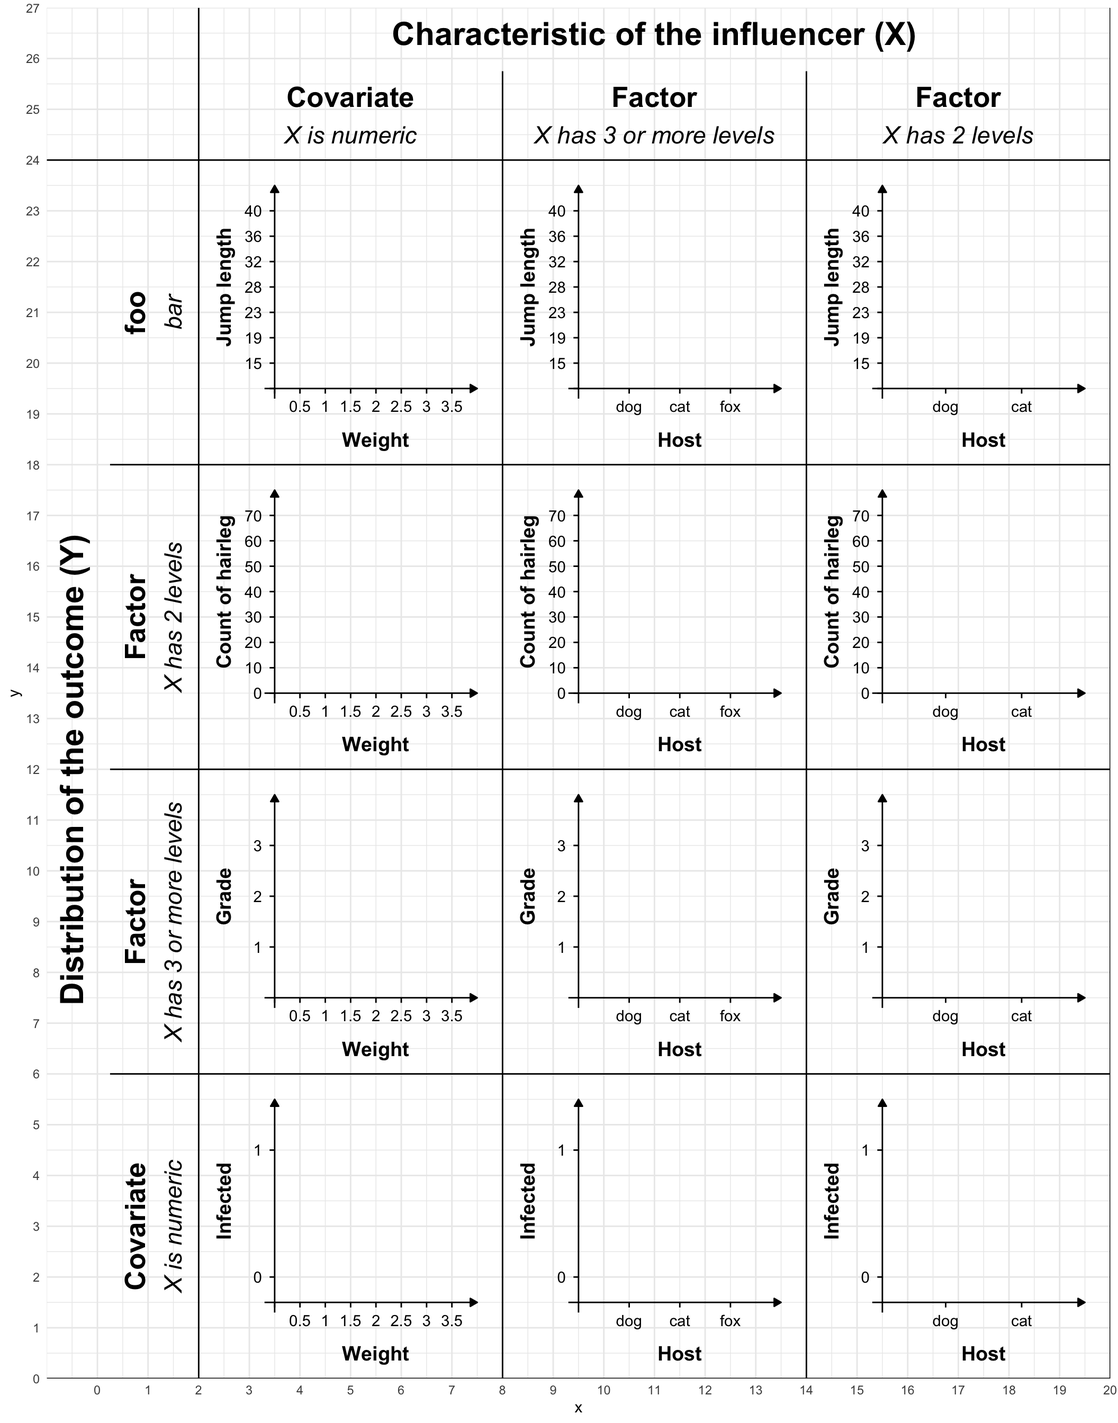
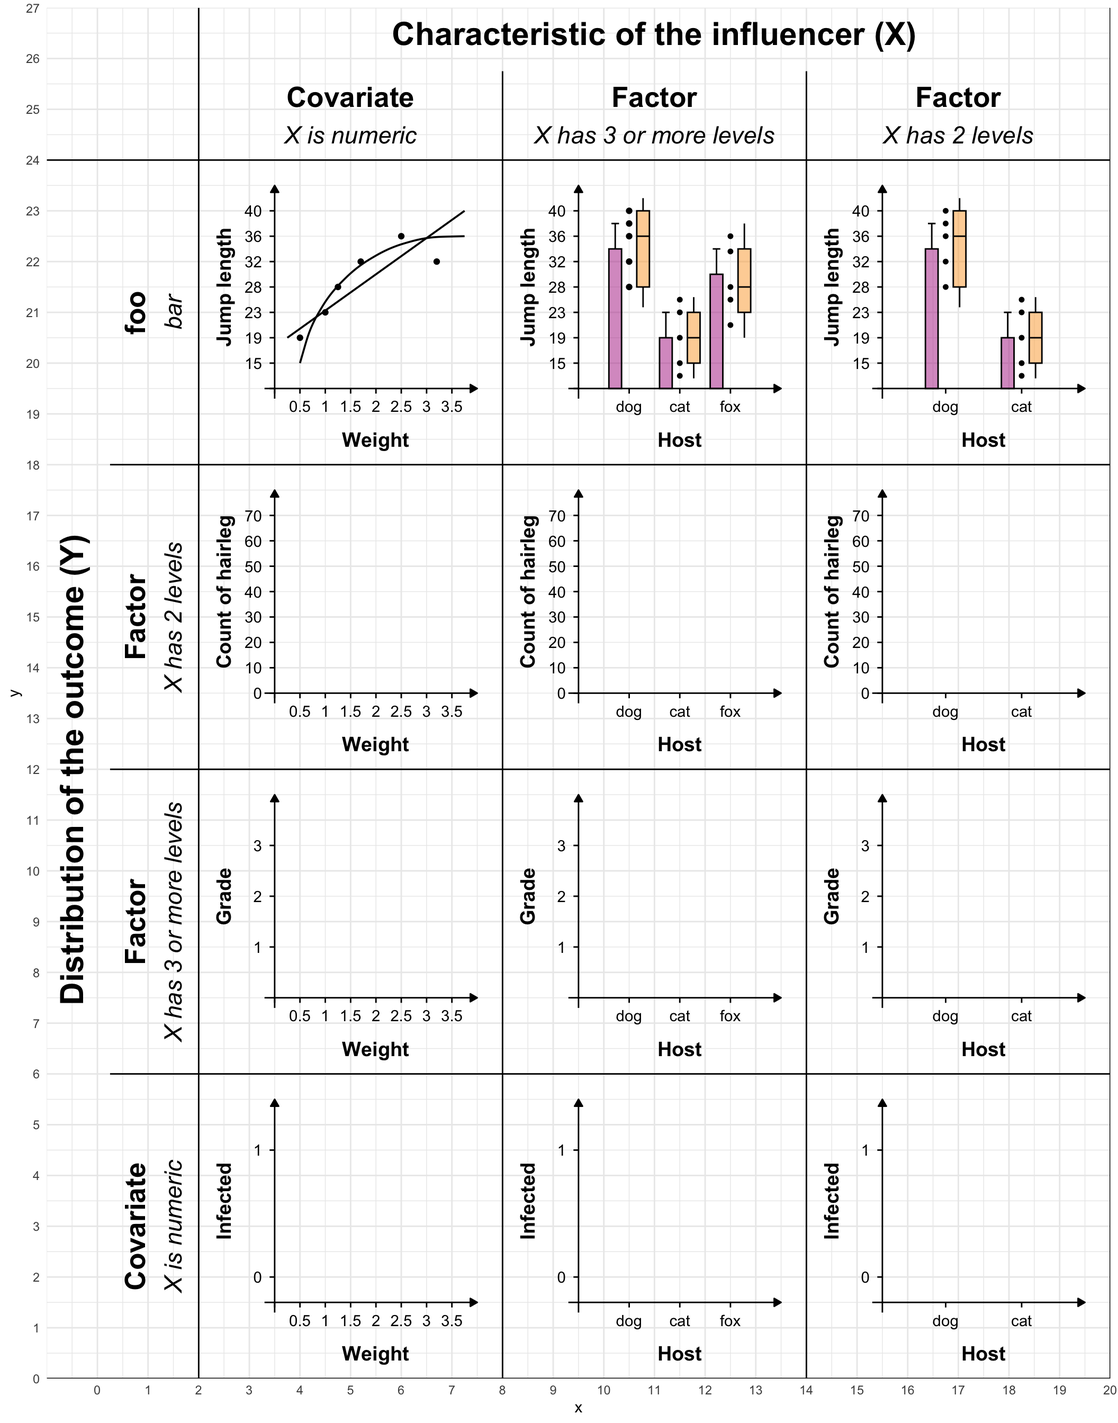
added

diff --git a/docs/chapter-40-preface.html b/docs/chapter-40-preface.html
@@ -361,7 +361,7 @@ pre > code.sourceCode > span > a:first-child::before { text-decoration: underlin
 </header>
 
 
-<p><em>Last modified on 14. December 2025 at 20:50:07</em></p>
+<p><em>Last modified on 15. December 2025 at 15:38:43</em></p>
 <blockquote class="blockquote">
 <p><em>“What problem have you solved, ever, that was worth solving where you knew all the given information in advance? No problem worth solving is like that. In the real world, you have a surplus of information and you have to filter it, or you don’t have sufficient information and you have to go find some.” — <a href="https://www.ted.com/talks/dan_meyer_math_class_needs_a_makeover?language=en&amp;subtitle=en&amp;trigger=5s">Dan Meyer in Math class needs a makeover</a></em></p>
 </blockquote>
@@ -1016,9 +1016,68 @@ Figure&nbsp;1: foo
 <span id="cb1-128"><a href="#cb1-128" aria-hidden="true" tabindex="-1"></a>  <span class="fu">geom_coord_cross</span>(<span class="at">x =</span> <span class="fl">15.5</span>, <span class="at">y =</span> <span class="fl">7.5</span>, <span class="at">yticks =</span> <span class="st">"3lvl"</span>, <span class="at">xticks =</span> <span class="st">"2lvl"</span>) <span class="sc">+</span></span>
 <span id="cb1-129"><a href="#cb1-129" aria-hidden="true" tabindex="-1"></a>  <span class="fu">geom_coord_cross</span>(<span class="at">x =</span> <span class="fl">3.5</span>, <span class="at">y =</span> <span class="fl">1.5</span>, <span class="at">yticks =</span> <span class="st">"2lvl"</span>, <span class="at">xticks =</span> <span class="st">"numeric"</span>) <span class="sc">+</span></span>
 <span id="cb1-130"><a href="#cb1-130" aria-hidden="true" tabindex="-1"></a>  <span class="fu">geom_coord_cross</span>(<span class="at">x =</span> <span class="fl">9.5</span>, <span class="at">y =</span> <span class="fl">1.5</span>, <span class="at">yticks =</span> <span class="st">"2lvl"</span>, <span class="at">xticks =</span> <span class="st">"3lvl"</span>) <span class="sc">+</span></span>
-<span id="cb1-131"><a href="#cb1-131" aria-hidden="true" tabindex="-1"></a>  <span class="fu">geom_coord_cross</span>(<span class="at">x =</span> <span class="fl">15.5</span>, <span class="at">y =</span> <span class="fl">1.5</span>, <span class="at">yticks =</span> <span class="st">"2lvl"</span>, <span class="at">xticks =</span> <span class="st">"2lvl"</span>) </span>
-<span id="cb1-132"><a href="#cb1-132" aria-hidden="true" tabindex="-1"></a>   </span>
-<span id="cb1-133"><a href="#cb1-133" aria-hidden="true" tabindex="-1"></a><span class="in">```</span></span>
+<span id="cb1-131"><a href="#cb1-131" aria-hidden="true" tabindex="-1"></a>  <span class="fu">geom_coord_cross</span>(<span class="at">x =</span> <span class="fl">15.5</span>, <span class="at">y =</span> <span class="fl">1.5</span>, <span class="at">yticks =</span> <span class="st">"2lvl"</span>, <span class="at">xticks =</span> <span class="st">"2lvl"</span>) <span class="sc">+</span></span>
+<span id="cb1-132"><a href="#cb1-132" aria-hidden="true" tabindex="-1"></a>  <span class="do">## normal</span></span>
+<span id="cb1-133"><a href="#cb1-133" aria-hidden="true" tabindex="-1"></a>  <span class="do">### covariate</span></span>
+<span id="cb1-134"><a href="#cb1-134" aria-hidden="true" tabindex="-1"></a>  <span class="fu">annotate</span>(<span class="st">"point"</span>, <span class="at">x =</span> <span class="fu">c</span>(<span class="fl">0.5</span>, <span class="dv">1</span>, <span class="fl">1.25</span>, <span class="fl">1.7</span>, <span class="fl">2.5</span>, <span class="fl">3.2</span>) <span class="sc">+</span> <span class="fl">3.5</span>, </span>
+<span id="cb1-135"><a href="#cb1-135" aria-hidden="true" tabindex="-1"></a>           <span class="at">y =</span> <span class="fu">c</span>(<span class="fl">20.5</span>, <span class="dv">21</span>, <span class="fl">21.5</span>, <span class="dv">22</span>, <span class="fl">22.5</span>, <span class="dv">22</span>), <span class="at">size =</span> <span class="fl">1.5</span>) <span class="sc">+</span></span>
+<span id="cb1-136"><a href="#cb1-136" aria-hidden="true" tabindex="-1"></a>  <span class="fu">annotate</span>(<span class="st">"segment"</span>, <span class="at">x =</span> <span class="fl">3.75</span>, <span class="at">xend =</span> <span class="fl">7.25</span>, <span class="at">y =</span> <span class="fl">20.5</span>, <span class="at">yend =</span> <span class="dv">23</span>, <span class="at">linewidth =</span> <span class="fl">0.65</span>) <span class="sc">+</span></span>
+<span id="cb1-137"><a href="#cb1-137" aria-hidden="true" tabindex="-1"></a>  <span class="fu">geom_curve</span>(<span class="fu">aes</span>(<span class="at">x =</span> <span class="dv">4</span>, <span class="at">y =</span> <span class="dv">20</span>, <span class="at">xend =</span> <span class="fl">7.25</span>, <span class="at">yend =</span> <span class="fl">22.5</span>),</span>
+<span id="cb1-138"><a href="#cb1-138" aria-hidden="true" tabindex="-1"></a>             <span class="at">curvature =</span> <span class="sc">-</span><span class="fl">0.4</span>, <span class="at">color =</span> <span class="st">"black"</span>, <span class="at">linewidth =</span> <span class="fl">0.65</span>) <span class="sc">+</span></span>
+<span id="cb1-139"><a href="#cb1-139" aria-hidden="true" tabindex="-1"></a>  <span class="do">### 3lvl</span></span>
+<span id="cb1-140"><a href="#cb1-140" aria-hidden="true" tabindex="-1"></a>  <span class="fu">geom_rect</span>(<span class="fu">aes</span>(<span class="at">xmin =</span> <span class="fl">10.1</span>, <span class="at">xmax =</span> <span class="fl">10.35</span>, <span class="at">ymin =</span> <span class="fl">19.5</span>, <span class="at">ymax =</span> <span class="fl">22.25</span>), <span class="at">fill =</span> <span class="st">"#B12A9080"</span>,</span>
+<span id="cb1-141"><a href="#cb1-141" aria-hidden="true" tabindex="-1"></a>            <span class="at">color =</span> <span class="st">"black"</span>) <span class="sc">+</span></span>
+<span id="cb1-142"><a href="#cb1-142" aria-hidden="true" tabindex="-1"></a>  <span class="fu">geom_segment</span>(<span class="fu">aes</span>(<span class="at">x =</span> <span class="fl">10.225</span>, <span class="at">xend =</span> <span class="fl">10.225</span>, <span class="at">y =</span> <span class="fl">22.25</span>, <span class="at">yend =</span> <span class="fl">22.75</span>)) <span class="sc">+</span></span>
+<span id="cb1-143"><a href="#cb1-143" aria-hidden="true" tabindex="-1"></a>  <span class="fu">geom_segment</span>(<span class="fu">aes</span>(<span class="at">x =</span> <span class="fl">10.15</span>, <span class="at">xend =</span> <span class="fl">10.3</span>, <span class="at">y =</span> <span class="fl">22.75</span>, <span class="at">yend =</span> <span class="fl">22.75</span>)) <span class="sc">+</span>  </span>
+<span id="cb1-144"><a href="#cb1-144" aria-hidden="true" tabindex="-1"></a>  <span class="fu">annotate</span>(<span class="st">"point"</span>, <span class="at">x =</span> <span class="fu">c</span>(<span class="fl">10.5</span>), </span>
+<span id="cb1-145"><a href="#cb1-145" aria-hidden="true" tabindex="-1"></a>           <span class="at">y =</span> <span class="fu">c</span>(<span class="fl">21.5</span>, <span class="dv">22</span>, <span class="fl">22.5</span>, <span class="fl">22.75</span>, <span class="dv">23</span>), <span class="at">size =</span> <span class="fl">1.5</span>) <span class="sc">+</span>  </span>
+<span id="cb1-146"><a href="#cb1-146" aria-hidden="true" tabindex="-1"></a>  <span class="fu">geom_rect</span>(<span class="fu">aes</span>(<span class="at">xmin =</span> <span class="fl">10.65</span>, <span class="at">xmax =</span> <span class="fl">10.9</span>, <span class="at">ymin =</span> <span class="fl">21.5</span>, <span class="at">ymax =</span> <span class="dv">23</span>), <span class="at">fill =</span> <span class="st">"#FCA63680"</span>,</span>
+<span id="cb1-147"><a href="#cb1-147" aria-hidden="true" tabindex="-1"></a>            <span class="at">color =</span> <span class="st">"black"</span>) <span class="sc">+</span></span>
+<span id="cb1-148"><a href="#cb1-148" aria-hidden="true" tabindex="-1"></a>  <span class="fu">geom_segment</span>(<span class="fu">aes</span>(<span class="at">x =</span> <span class="fl">10.65</span>, <span class="at">xend =</span> <span class="fl">10.9</span>, <span class="at">y =</span> <span class="fl">22.5</span>, <span class="at">yend =</span> <span class="fl">22.5</span>)) <span class="sc">+</span></span>
+<span id="cb1-149"><a href="#cb1-149" aria-hidden="true" tabindex="-1"></a>  <span class="fu">geom_segment</span>(<span class="fu">aes</span>(<span class="at">x =</span> <span class="fl">10.775</span>, <span class="at">xend =</span> <span class="fl">10.775</span>, <span class="at">y =</span> <span class="fu">c</span>(<span class="fl">21.1</span>, <span class="dv">23</span>), <span class="at">yend =</span> <span class="fu">c</span>(<span class="fl">21.5</span>, <span class="fl">23.25</span>))) <span class="sc">+</span></span>
+<span id="cb1-150"><a href="#cb1-150" aria-hidden="true" tabindex="-1"></a>  <span class="fu">geom_rect</span>(<span class="fu">aes</span>(<span class="at">xmin =</span> <span class="fl">11.1</span>, <span class="at">xmax =</span> <span class="fl">11.35</span>, <span class="at">ymin =</span> <span class="fl">19.5</span>, <span class="at">ymax =</span> <span class="fl">20.5</span>), <span class="at">fill =</span> <span class="st">"#B12A9080"</span>,</span>
+<span id="cb1-151"><a href="#cb1-151" aria-hidden="true" tabindex="-1"></a>            <span class="at">color =</span> <span class="st">"black"</span>) <span class="sc">+</span></span>
+<span id="cb1-152"><a href="#cb1-152" aria-hidden="true" tabindex="-1"></a>  <span class="fu">geom_segment</span>(<span class="fu">aes</span>(<span class="at">x =</span> <span class="fl">11.225</span>, <span class="at">xend =</span> <span class="fl">11.225</span>, <span class="at">y =</span> <span class="fl">20.5</span>, <span class="at">yend =</span> <span class="dv">21</span>)) <span class="sc">+</span></span>
+<span id="cb1-153"><a href="#cb1-153" aria-hidden="true" tabindex="-1"></a>  <span class="fu">geom_segment</span>(<span class="fu">aes</span>(<span class="at">x =</span> <span class="fl">11.15</span>, <span class="at">xend =</span> <span class="fl">11.3</span>, <span class="at">y =</span> <span class="dv">21</span>, <span class="at">yend =</span> <span class="dv">21</span>)) <span class="sc">+</span>  </span>
+<span id="cb1-154"><a href="#cb1-154" aria-hidden="true" tabindex="-1"></a>  <span class="fu">annotate</span>(<span class="st">"point"</span>, <span class="at">x =</span> <span class="fu">c</span>(<span class="fl">11.5</span>), </span>
+<span id="cb1-155"><a href="#cb1-155" aria-hidden="true" tabindex="-1"></a>           <span class="at">y =</span> <span class="fu">c</span>(<span class="fl">19.75</span>, <span class="dv">20</span>, <span class="fl">20.5</span>, <span class="dv">21</span>, <span class="fl">21.25</span>), <span class="at">size =</span> <span class="fl">1.25</span>) <span class="sc">+</span>  </span>
+<span id="cb1-156"><a href="#cb1-156" aria-hidden="true" tabindex="-1"></a>  <span class="fu">geom_rect</span>(<span class="fu">aes</span>(<span class="at">xmin =</span> <span class="fl">11.65</span>, <span class="at">xmax =</span> <span class="fl">11.9</span>, <span class="at">ymin =</span> <span class="dv">20</span>, <span class="at">ymax =</span> <span class="dv">21</span>), <span class="at">fill =</span> <span class="st">"#FCA63680"</span>,</span>
+<span id="cb1-157"><a href="#cb1-157" aria-hidden="true" tabindex="-1"></a>            <span class="at">color =</span> <span class="st">"black"</span>) <span class="sc">+</span></span>
+<span id="cb1-158"><a href="#cb1-158" aria-hidden="true" tabindex="-1"></a>  <span class="fu">geom_segment</span>(<span class="fu">aes</span>(<span class="at">x =</span> <span class="fl">11.65</span>, <span class="at">xend =</span> <span class="fl">11.9</span>, <span class="at">y =</span> <span class="fl">20.5</span>, <span class="at">yend =</span> <span class="fl">20.5</span>)) <span class="sc">+</span></span>
+<span id="cb1-159"><a href="#cb1-159" aria-hidden="true" tabindex="-1"></a>  <span class="fu">geom_segment</span>(<span class="fu">aes</span>(<span class="at">x =</span> <span class="fl">11.775</span>, <span class="at">xend =</span> <span class="fl">11.775</span>, <span class="at">y =</span> <span class="fu">c</span>(<span class="fl">19.7</span>, <span class="dv">21</span>), <span class="at">yend =</span> <span class="fu">c</span>(<span class="dv">20</span>, <span class="fl">21.3</span>))) <span class="sc">+</span></span>
+<span id="cb1-160"><a href="#cb1-160" aria-hidden="true" tabindex="-1"></a>  <span class="fu">geom_rect</span>(<span class="fu">aes</span>(<span class="at">xmin =</span> <span class="fl">12.1</span>, <span class="at">xmax =</span> <span class="fl">12.35</span>, <span class="at">ymin =</span> <span class="fl">19.5</span>, <span class="at">ymax =</span> <span class="fl">21.75</span>), <span class="at">fill =</span> <span class="st">"#B12A9080"</span>,</span>
+<span id="cb1-161"><a href="#cb1-161" aria-hidden="true" tabindex="-1"></a>            <span class="at">color =</span> <span class="st">"black"</span>) <span class="sc">+</span></span>
+<span id="cb1-162"><a href="#cb1-162" aria-hidden="true" tabindex="-1"></a>  <span class="fu">geom_segment</span>(<span class="fu">aes</span>(<span class="at">x =</span> <span class="fl">12.225</span>, <span class="at">xend =</span> <span class="fl">12.225</span>, <span class="at">y =</span> <span class="fl">21.75</span>, <span class="at">yend =</span> <span class="fl">22.25</span>)) <span class="sc">+</span></span>
+<span id="cb1-163"><a href="#cb1-163" aria-hidden="true" tabindex="-1"></a>  <span class="fu">geom_segment</span>(<span class="fu">aes</span>(<span class="at">x =</span> <span class="fl">12.15</span>, <span class="at">xend =</span> <span class="fl">12.3</span>, <span class="at">y =</span> <span class="fl">22.25</span>, <span class="at">yend =</span> <span class="fl">22.25</span>)) <span class="sc">+</span>    </span>
+<span id="cb1-164"><a href="#cb1-164" aria-hidden="true" tabindex="-1"></a>  <span class="fu">annotate</span>(<span class="st">"point"</span>, <span class="at">x =</span> <span class="fu">c</span>(<span class="fl">12.5</span>), </span>
+<span id="cb1-165"><a href="#cb1-165" aria-hidden="true" tabindex="-1"></a>           <span class="at">y =</span> <span class="fu">c</span>(<span class="fl">20.75</span>, <span class="fl">21.25</span>, <span class="fl">21.5</span>, <span class="fl">22.2</span>, <span class="fl">22.5</span>), <span class="at">size =</span> <span class="fl">1.25</span>) <span class="sc">+</span></span>
+<span id="cb1-166"><a href="#cb1-166" aria-hidden="true" tabindex="-1"></a>  <span class="fu">geom_rect</span>(<span class="fu">aes</span>(<span class="at">xmin =</span> <span class="fl">12.65</span>, <span class="at">xmax =</span> <span class="fl">12.9</span>, <span class="at">ymin =</span> <span class="dv">21</span>, <span class="at">ymax =</span> <span class="fl">22.25</span>), <span class="at">fill =</span> <span class="st">"#FCA63680"</span>,</span>
+<span id="cb1-167"><a href="#cb1-167" aria-hidden="true" tabindex="-1"></a>            <span class="at">color =</span> <span class="st">"black"</span>) <span class="sc">+</span></span>
+<span id="cb1-168"><a href="#cb1-168" aria-hidden="true" tabindex="-1"></a>  <span class="fu">geom_segment</span>(<span class="fu">aes</span>(<span class="at">x =</span> <span class="fl">12.65</span>, <span class="at">xend =</span> <span class="fl">12.9</span>, <span class="at">y =</span> <span class="fl">21.5</span>, <span class="at">yend =</span> <span class="fl">21.5</span>)) <span class="sc">+</span></span>
+<span id="cb1-169"><a href="#cb1-169" aria-hidden="true" tabindex="-1"></a>  <span class="fu">geom_segment</span>(<span class="fu">aes</span>(<span class="at">x =</span> <span class="fl">12.775</span>, <span class="at">xend =</span> <span class="fl">12.775</span>, <span class="at">y =</span> <span class="fu">c</span>(<span class="fl">20.5</span>, <span class="fl">22.25</span>), <span class="at">yend =</span> <span class="fu">c</span>(<span class="dv">21</span>, <span class="fl">22.75</span>))) <span class="sc">+</span>  </span>
+<span id="cb1-170"><a href="#cb1-170" aria-hidden="true" tabindex="-1"></a>  <span class="do">### 2lvl</span></span>
+<span id="cb1-171"><a href="#cb1-171" aria-hidden="true" tabindex="-1"></a>  <span class="fu">geom_rect</span>(<span class="fu">aes</span>(<span class="at">xmin =</span> <span class="fl">10.1+6.25</span>, <span class="at">xmax =</span> <span class="fl">10.35+6.25</span>, <span class="at">ymin =</span> <span class="fl">19.5</span>, <span class="at">ymax =</span> <span class="fl">22.25</span>), <span class="at">fill =</span> <span class="st">"#B12A9080"</span>,</span>
+<span id="cb1-172"><a href="#cb1-172" aria-hidden="true" tabindex="-1"></a>            <span class="at">color =</span> <span class="st">"black"</span>) <span class="sc">+</span></span>
+<span id="cb1-173"><a href="#cb1-173" aria-hidden="true" tabindex="-1"></a>  <span class="fu">geom_segment</span>(<span class="fu">aes</span>(<span class="at">x =</span> <span class="fl">10.225+6.25</span>, <span class="at">xend =</span> <span class="fl">10.225+6.25</span>, <span class="at">y =</span> <span class="fl">22.25</span>, <span class="at">yend =</span> <span class="fl">22.75</span>)) <span class="sc">+</span></span>
+<span id="cb1-174"><a href="#cb1-174" aria-hidden="true" tabindex="-1"></a>  <span class="fu">geom_segment</span>(<span class="fu">aes</span>(<span class="at">x =</span> <span class="fl">10.15+6.25</span>, <span class="at">xend =</span> <span class="fl">10.3+6.25</span>, <span class="at">y =</span> <span class="fl">22.75</span>, <span class="at">yend =</span> <span class="fl">22.75</span>)) <span class="sc">+</span>  </span>
+<span id="cb1-175"><a href="#cb1-175" aria-hidden="true" tabindex="-1"></a>  <span class="fu">annotate</span>(<span class="st">"point"</span>, <span class="at">x =</span> <span class="fu">c</span>(<span class="fl">10.5</span>)<span class="sc">+</span><span class="fl">6.25</span>, </span>
+<span id="cb1-176"><a href="#cb1-176" aria-hidden="true" tabindex="-1"></a>           <span class="at">y =</span> <span class="fu">c</span>(<span class="fl">21.5</span>, <span class="dv">22</span>, <span class="fl">22.5</span>, <span class="fl">22.75</span>, <span class="dv">23</span>), <span class="at">size =</span> <span class="fl">1.25</span>) <span class="sc">+</span>  </span>
+<span id="cb1-177"><a href="#cb1-177" aria-hidden="true" tabindex="-1"></a>  <span class="fu">geom_rect</span>(<span class="fu">aes</span>(<span class="at">xmin =</span> <span class="fl">10.65+6.25</span>, <span class="at">xmax =</span> <span class="fl">10.9+6.25</span>, <span class="at">ymin =</span> <span class="fl">21.5</span>, <span class="at">ymax =</span> <span class="dv">23</span>), <span class="at">fill =</span> <span class="st">"#FCA63680"</span>,</span>
+<span id="cb1-178"><a href="#cb1-178" aria-hidden="true" tabindex="-1"></a>            <span class="at">color =</span> <span class="st">"black"</span>) <span class="sc">+</span></span>
+<span id="cb1-179"><a href="#cb1-179" aria-hidden="true" tabindex="-1"></a>  <span class="fu">geom_segment</span>(<span class="fu">aes</span>(<span class="at">x =</span> <span class="fl">10.65+6.25</span>, <span class="at">xend =</span> <span class="fl">10.9+6.25</span>, <span class="at">y =</span> <span class="fl">22.5</span>, <span class="at">yend =</span> <span class="fl">22.5</span>)) <span class="sc">+</span></span>
+<span id="cb1-180"><a href="#cb1-180" aria-hidden="true" tabindex="-1"></a>  <span class="fu">geom_segment</span>(<span class="fu">aes</span>(<span class="at">x =</span> <span class="fl">10.775+6.25</span>, <span class="at">xend =</span> <span class="fl">10.775+6.25</span>, <span class="at">y =</span> <span class="fu">c</span>(<span class="fl">21.1</span>, <span class="dv">23</span>), <span class="at">yend =</span> <span class="fu">c</span>(<span class="fl">21.5</span>, <span class="fl">23.25</span>))) <span class="sc">+</span></span>
+<span id="cb1-181"><a href="#cb1-181" aria-hidden="true" tabindex="-1"></a>  <span class="fu">geom_rect</span>(<span class="fu">aes</span>(<span class="at">xmin =</span> <span class="fl">11.1+6.75</span>, <span class="at">xmax =</span> <span class="fl">11.35+6.75</span>, <span class="at">ymin =</span> <span class="fl">19.5</span>, <span class="at">ymax =</span> <span class="fl">20.5</span>), <span class="at">fill =</span> <span class="st">"#B12A9080"</span>,</span>
+<span id="cb1-182"><a href="#cb1-182" aria-hidden="true" tabindex="-1"></a>            <span class="at">color =</span> <span class="st">"black"</span>) <span class="sc">+</span></span>
+<span id="cb1-183"><a href="#cb1-183" aria-hidden="true" tabindex="-1"></a>  <span class="fu">geom_segment</span>(<span class="fu">aes</span>(<span class="at">x =</span> <span class="fl">11.225+6.75</span>, <span class="at">xend =</span> <span class="fl">11.225+6.75</span>, <span class="at">y =</span> <span class="fl">20.5</span>, <span class="at">yend =</span> <span class="dv">21</span>)) <span class="sc">+</span></span>
+<span id="cb1-184"><a href="#cb1-184" aria-hidden="true" tabindex="-1"></a>  <span class="fu">geom_segment</span>(<span class="fu">aes</span>(<span class="at">x =</span> <span class="fl">11.15+6.75</span>, <span class="at">xend =</span> <span class="fl">11.3+6.75</span>, <span class="at">y =</span> <span class="dv">21</span>, <span class="at">yend =</span> <span class="dv">21</span>)) <span class="sc">+</span>  </span>
+<span id="cb1-185"><a href="#cb1-185" aria-hidden="true" tabindex="-1"></a>  <span class="fu">annotate</span>(<span class="st">"point"</span>, <span class="at">x =</span> <span class="fu">c</span>(<span class="fl">11.5+6.75</span>), </span>
+<span id="cb1-186"><a href="#cb1-186" aria-hidden="true" tabindex="-1"></a>           <span class="at">y =</span> <span class="fu">c</span>(<span class="fl">19.75</span>, <span class="dv">20</span>, <span class="fl">20.5</span>, <span class="dv">21</span>, <span class="fl">21.25</span>), <span class="at">size =</span> <span class="fl">1.25</span>) <span class="sc">+</span>  </span>
+<span id="cb1-187"><a href="#cb1-187" aria-hidden="true" tabindex="-1"></a>  <span class="fu">geom_rect</span>(<span class="fu">aes</span>(<span class="at">xmin =</span> <span class="fl">11.65+6.75</span>, <span class="at">xmax =</span> <span class="fl">11.9+6.75</span>, <span class="at">ymin =</span> <span class="dv">20</span>, <span class="at">ymax =</span> <span class="dv">21</span>), <span class="at">fill =</span> <span class="st">"#FCA63680"</span>,</span>
+<span id="cb1-188"><a href="#cb1-188" aria-hidden="true" tabindex="-1"></a>            <span class="at">color =</span> <span class="st">"black"</span>) <span class="sc">+</span></span>
+<span id="cb1-189"><a href="#cb1-189" aria-hidden="true" tabindex="-1"></a>  <span class="fu">geom_segment</span>(<span class="fu">aes</span>(<span class="at">x =</span> <span class="fl">11.65+6.75</span>, <span class="at">xend =</span> <span class="fl">11.9+6.75</span>, <span class="at">y =</span> <span class="fl">20.5</span>, <span class="at">yend =</span> <span class="fl">20.5</span>)) <span class="sc">+</span></span>
+<span id="cb1-190"><a href="#cb1-190" aria-hidden="true" tabindex="-1"></a>  <span class="fu">geom_segment</span>(<span class="fu">aes</span>(<span class="at">x =</span> <span class="fl">11.775+6.75</span>, <span class="at">xend =</span> <span class="fl">11.775+6.75</span>, <span class="at">y =</span> <span class="fu">c</span>(<span class="fl">19.7</span>, <span class="dv">21</span>), <span class="at">yend =</span> <span class="fu">c</span>(<span class="dv">20</span>, <span class="fl">21.3</span>))) </span>
+<span id="cb1-191"><a href="#cb1-191" aria-hidden="true" tabindex="-1"></a>   </span>
+<span id="cb1-192"><a href="#cb1-192" aria-hidden="true" tabindex="-1"></a><span class="in">```</span></span>
 </code></pre></div><button title="Copy to Clipboard" class="code-copy-button" data-in-quarto-modal=""><i class="bi"></i></button></div>
 </div></div></div></div></div>
 </div> <!-- /content -->
